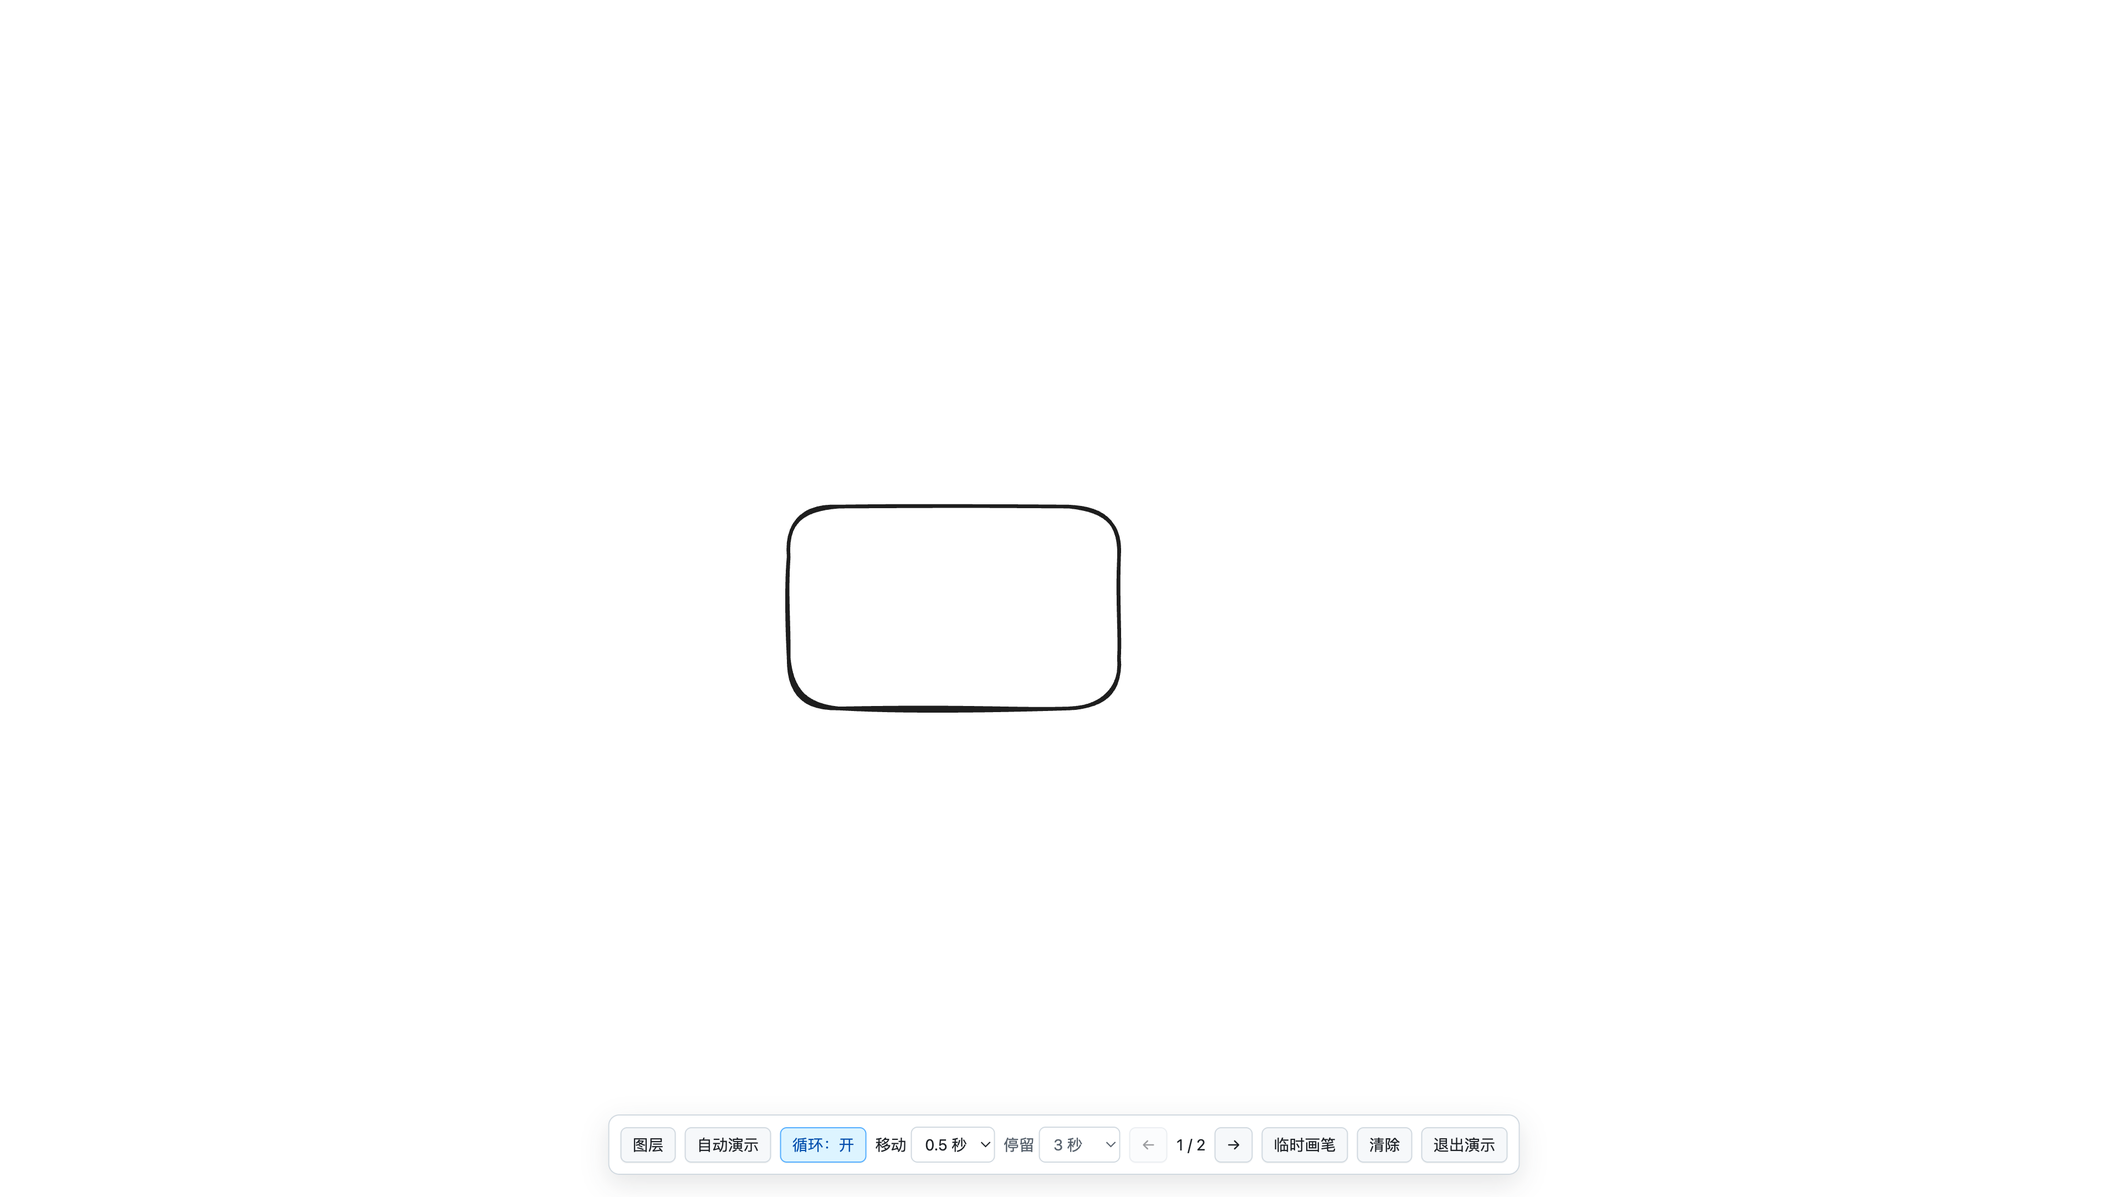
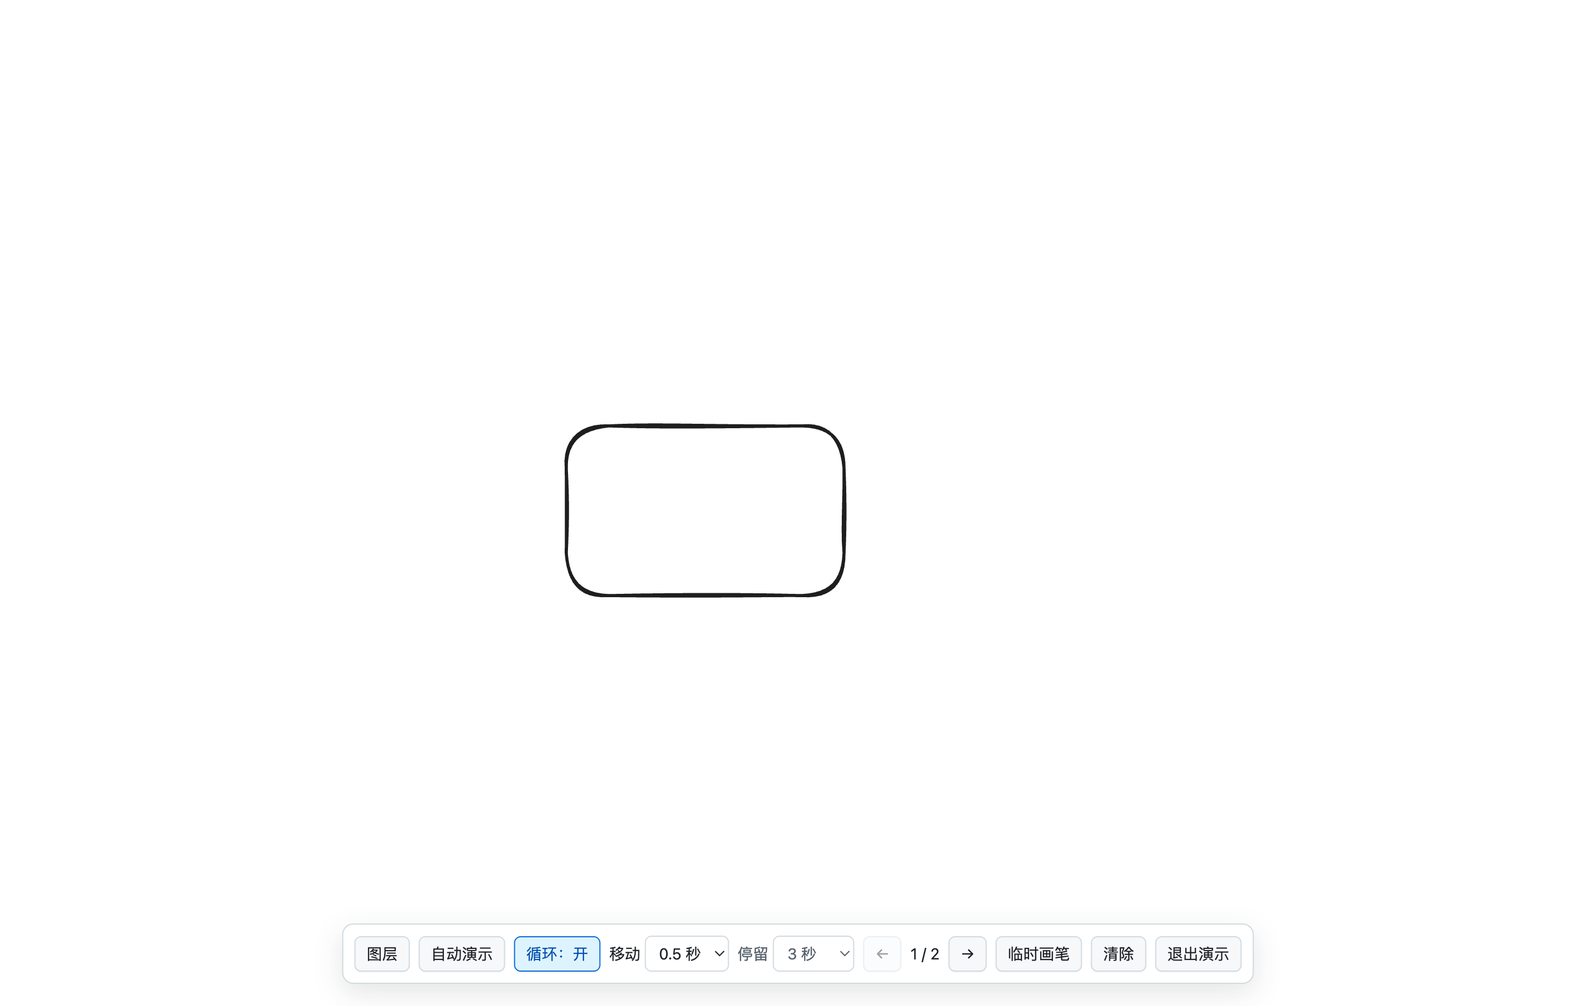
docs: present product features, linked scenes and current screenshots; keep history in lists

diff --git a/README.md b/README.md
@@ -2,7 +2,7 @@
 
 基于官方 MIT 授权的 Excalidraw React 组件，使用 React + Electron + SQLite 构建 Windows/macOS 本地优先白板。在保留原生绘图体验的基础上，增加本地文档管理、场景导航与全屏演示。
 
-[下载 0.4.0 开发预览版（macOS / Windows）](https://github.com/layzerff/excalidraw/releases/tag/v0.4.0) · [0.4.0 安装包对应源码](https://github.com/layzerff/excalidraw/tree/c15b4396b52e1566a4da2e3e047cff531b2c1075/desktop)
+[下载桌面版（macOS / Windows）](https://github.com/layzerff/excalidraw/releases) · [桌面端源码](https://github.com/layzerff/excalidraw/tree/codex/local-canvas-p0/desktop)
 
 [开发源码与运行说明](https://github.com/layzerff/excalidraw/tree/codex/local-canvas-p0/desktop) · [修改清单](https://github.com/layzerff/excalidraw/blob/codex/local-canvas-p0/desktop/NEXT-ITERATION.md) · [更新记录](https://github.com/layzerff/excalidraw/blob/codex/local-canvas-p0/desktop/CHANGELOG.md) · [验证记录](https://github.com/layzerff/excalidraw/blob/codex/local-canvas-p0/desktop/VALIDATION.md) · [原版介绍](README.upstream.md)
 
@@ -13,14 +13,15 @@
 | 功能 | Local Canvas 的扩展 |
 | --- | --- |
 | 本地文档工作区 | 根目录/文件夹右键新建，文件树就地菜单改名与移动，支持拖入文件夹及拖回根目录；文件夹加粗与折叠，左右侧栏可调整宽度 |
+| 回收站 | 恢复误删的白板和文件夹，或经确认后清空回收站；磁盘上的关联文件及已有备份独立保留 |
 | 保存与备份 | 内容变更自动保存，平移、缩放和场景导航不触发写入；手动保存（Cmd/Ctrl+S）同时记录当前视图；完整备份包含图片、场景及素材库 |
-| 同一白板内的场景 | 框选区域或保存当前视图，编辑标题、调整区域、拖动排序；点击后平滑移动并缩放，动画可打断 |
-| 紧凑场景侧栏 | 单行标题、拖动排序，右键进入改名/重框等操作；标题原位编辑，双栏图标切换显示 |
+| 三种场景创建方式 | 框选区域、选择画布元素或组合、添加当前视图；元素场景跟随关联内容的位置和边界变化，随文档及备份保存 |
+| 紧凑场景侧栏 | 标题原位编辑、拖动排序，Shift 连续多选并右键确认删除；双栏图标切换显示 |
 | 导航时长 | 编辑侧栏固定 0.5 秒；演示中的手动翻页与自动播放可选 0.5、1、1.5、2 秒 |
 | 全屏场景演示 | 从排序第一项开始，底部手动翻页或自动演示；图层面板可拖拽排序、右键原位改名，退出恢复编辑视图 |
 | 循环演示与只读浏览 | 自动演示可开启循环，末页回首页继续；独立“画布只读”禁止元素编辑、拖动和删除，同时允许平移缩放，保留原生工具锁的连续绘制语义 |
 | 四种工作区主题 | GitHub、Reddit、VS Code、Notion 风格，分别调整图标、配色与控件；目录高亮保持柔和，固定彩色调色板切换主题并记住偏好 |
-| 更简洁的浏览界面 | 左右侧栏可独立隐藏，标题/保存状态与操作按钮分区；双击鼠标中键恢复 100% 缩放；精简画布菜单与帮助页外链 |
+| 浏览与全览 | 左右侧栏可独立隐藏，标题/保存状态与操作按钮分区；双击鼠标中键让整张白板的内容进入视野 |
 | 文件打开与保存 | 系统窗口选择文件，手动保存写回原文件；另存为选择新位置，“文件信息”查看路径。内容自动保存到本机恢复副本，外部文件变更时拒绝覆盖 |
 | 演示临时画笔 | 直接使用 Excalidraw 原生自由画笔和样式面板，支持描边、背景、粗细及透明度；翻页或退出清除 |
 | 集中导出 | 右上角统一入口，可框选区域导出 PNG、SVG、PDF；支持整板、场景分页 PDF 及完整可编辑文档 |
@@ -29,23 +30,29 @@
 
 ## 编辑与场景管理
 
-当前桌面版本：**0.4.0**。新增四种主题、独立侧栏开关与 100% 缩放操作，统一顶部排布和目录字号。保留原生绘图、文件管理、保存、场景与演示能力。
+四种界面主题，独立的文件与场景侧栏，原生绘图与本地保存。目录层级使用引导线和柔和背景，顶部集中提供文件信息、只读浏览、主题与导出操作。
 
-<img src="docs/local-canvas/logo.png" width="128" alt="Canvas 网格手写 Logo：黑色边框、透明连续圆角" />
+<img src="docs/local-canvas/logo.png" width="128" alt="Canvas 手写 Logo：蓝色边框、黄色交叉线与透明外角" />
 
 | GitHub | Reddit |
 | --- | --- |
-| ![0.4.0 GitHub 主题实机](docs/local-canvas/theme-github.png) | ![0.4.0 Reddit 主题实机](docs/local-canvas/theme-reddit.png) |
+| ![GitHub 主题实机](docs/local-canvas/theme-github.png) | ![Reddit 主题实机](docs/local-canvas/theme-reddit.png) |
 | **VS Code** | **Notion** |
-| ![0.4.0 VS Code 主题实机](docs/local-canvas/theme-vscode.png) | ![0.4.0 Notion 主题实机](docs/local-canvas/theme-notion.png) |
+| ![VS Code 主题实机](docs/local-canvas/theme-vscode.png) | ![Notion 主题实机](docs/local-canvas/theme-notion.png) |
 
 四种风格各有目录图标、控件圆角与配色；目录选中和祖先路径采用低对比度背景，主题入口始终使用同一枚彩色调色板。只借鉴视觉风格，不代表与上述产品存在合作关系。
 
-左上角双栏按钮隐藏/显示文件栏，右上角按钮独立控制场景栏。画布双击鼠标中键恢复 100% 并保留视图中心，不触发内容自动保存。画布菜单保留打开、查找、帮助、重置、深色模式、背景及本项目 GitHub；保存和导出沿用工作区入口。
+左上角双栏按钮隐藏/显示文件栏，右上角按钮独立控制场景栏。双击鼠标中键自动平移缩放，使全部内容进入视野，不触发内容自动保存。画布菜单提供打开、查找、帮助、重置、深色模式、背景及本项目 GitHub。
 
-![0.4.0 精简画布菜单](docs/local-canvas/canvas-menu.png)
+![画布菜单](docs/local-canvas/canvas-menu.png)
 
-帮助页已去除顶部四个外链按钮，快捷键沿用原生平台判断：Mac 显示 Cmd/Option，Windows 显示 Ctrl/Alt。Mac 实机与模拟 Win32 平台标签已检查，Windows 实机键盘验证仍待完成。
+快捷键遵循系统习惯：Mac 使用 Cmd/Option，Windows 使用 Ctrl/Alt，可在原生帮助页查看。
+
+场景入口按“框选区域 / 选择元素”并排、“添加当前视图为场景”另起一行排列。先在画布选中独立元素或组合，再点“选择元素”，创建会跟随内容移动和尺寸变化的场景。若关联内容被删除，保留最后的导航区域；撤销删除后继续跟随。对跟随场景重新框选区域可解除关联。
+
+![元素与组合场景](docs/local-canvas/linked-scenes.png)
+
+场景列表支持 Shift 连续选择；右键删除前列出所选场景并要求确认。删除导航场景不删除画布上的文字和图形。
 
 三点菜单只显示清楚分组的操作项。选择重命名或移动后才显示对应表单，输入与确认按钮分区；选择移动目标不会立即执行，回收站操作需确认。
 

diff --git a/desktop/VALIDATION.md b/desktop/VALIDATION.md
@@ -1,5 +1,24 @@
 # Milestone validation — 2026-10-17
 
+## 0.4.1 — release validation, 2026-10-25
+
+- Production build and all 18 unit/resource checks passed, including linked-scene range/binding/geometry updates, backup round-trip, malformed binding rejection and transactional trash purge of nodes/revisions/link settings.
+- Final Mac arm64 packaged app passed all five suites, sequentially: `linked-scenes.e2e.mjs`, `local-update.e2e.mjs`, `appearance.e2e.mjs`, `workspace.e2e.mjs`, and the complete `desktop.e2e.mjs`.
+- Actual native grouping, pointer dragging, undo/redo, deletion and undo-deletion updated linked scene bounds correctly. Linked IDs survived restart. Unit checks cover new group members, missing content and backup restoration. Geometry uses the official getCommonBounds API (including rotated content); there is no claim of exhaustive rotation/complex-bound-text coverage.
+- Trash UI verified cancellation without deletion, confirmation and restart persistence. Only internal trashed records, revisions and file-link settings are purged; associated files and existing backups are untouched. Nested deleted folders are detached before transactional deletion to preserve foreign-key integrity.
+- Layout checks verify Region and Selected Elements on the same row, Current View below; all four themes retain subdued directory highlights to the right of guide lines without the inset crescent, and hidden-sidebar corner controls remain separated across 1000/1200/1440px widths.
+- Earlier local 0.4.1 checks for fit-all without autosave, Shift scene deletion confirmation, large single/two-page PDF output and temporary-file cleanup remain green. The complete suite also passed native drawing and ink undo/redo, scene ordering/fullscreen/autoplay, imports/exports, external file conflict protection, backup/restore, storage migration and restart. Prior intermittent ink/fullscreen-drag failures are historical observations; this passing run does not establish their root cause was fixed.
+- Mac ad-hoc signing and Windows x64 cross-builds complete; Windows runtime, Authenticode signing and Apple notarization remain unverified/unconfigured. README contains product features and real current screenshots; history and test details stay in dedicated documents.
+
+## 0.4.1 — earlier local-only validation, 2026-10-25
+
+- Production build and 15 unit/resource checks passed. New scene-range checks cover forward/reverse ranges, reordered scenes and missing anchors. ICO/ICNS structure, Mac visible bounds and transparent corners are checked.
+- Actual Mac arm64 packaged `local-update.e2e.mjs` passed: double-middle-click fits two distant rectangles entirely within the viewport without creating an autosave revision; manual Save then verifies the resulting viewport. Shift selection, cancellation, confirmed batch deletion and unchanged drawing elements were checked in both editing and fullscreen; deleting the last presentation scenes exits presentation and survives restart.
+- Large-image PDF regression passed with an image data URL over 4,000,000 characters: single and two-page outputs have valid PDF headers; pdfinfo confirms one/two landscape A4 pages. Invalid-image export fails without creating an output file and removes its temporary directory. The fix uses local PNG/HTML files, waits for image decoding and cleans up the print window/files.
+- Actual packaged appearance checks cover four themes, 1000/1200/1440px window widths, hidden-right-sidebar corner spacing and actual export-menu clicks. Tree highlight pseudo-element begins to the right of the deepest indentation guide and has no inset/crescent marker in every theme. Theme preferences and independent sidebar restart checks continue to pass.
+- Packaged workspace regression passed ancestor highlighting, moves/restart, context forms, indentation, transparent logo corners, read-only editing protection, automatic loop wrap/stop and preferences.
+- Mac/Windows packages are local delivery only. No 0.4.1 GitHub Release, tag or software asset upload is authorized. Only CHANGELOG.md and NEXT-ITERATION.md are synchronized as requested. No Windows runtime or distribution signing/notarization; earlier full-suite temporary-ink undo/fullscreen-drag intermittence is not claimed fixed.
+
 ## 0.4.0 — 2026-10-25
 
 - Production build and all 15 unit/resource checks passed. New checks cover four complete theme definitions, safe preference fallback, readable text contrast and center-preserving 100% zoom.

diff --git a/desktop/README.md b/desktop/README.md
@@ -21,6 +21,9 @@ npm start
 
 ## Included
 
+- Three scene entry points: draw a fixed region, link currently selected elements/groups, or capture the current view. Linked scenes track official geometry bounds as content moves/resizes/rotates; group membership and element IDs persist with documents and workspace backups. If all linked content is deleted, the last bounds remain; undo restores tracking. Redrawing a linked scene converts it into a fixed region.
+- Trash supports restore and a separately confirmed Empty Trash action. Purging is transactional and removes trashed nodes, their revision rows and file-link settings. Associated disk files and existing backups remain untouched.
+
 - Unmodified official Excalidraw editor: drawing, text, arrows, freehand, frames, library and standard editor controls. Fonts are bundled locally. A library is saved with its whiteboard.
 - Nested file tree, document/folder creation, rename, move, document switching and recoverable deletion. A folder must be empty before deletion. No document-count or folder-count quota.
 - SQLite WAL with FULL synchronous commits, revision-conflict protection, 500 ms debounced saves, at most 2 s between saves during continuous edits, synchronous flush before switching and closing. Failed saves remain dirty and show an error. OS/process crashes can lose changes not yet committed, at most the debounce/max-wait window under normal operation.
@@ -87,9 +90,9 @@ Retain the repository root MIT `LICENSE` and `dist/EXCALIDRAW-LICENSE.txt`. `npm
 
 Official references: https://docs.excalidraw.com/docs/@excalidraw/excalidraw/api/props/excalidraw-api and https://github.com/excalidraw/excalidraw/blob/master/LICENSE.
 
-## Desktop 0.4.0 — appearance and navigation
+## Appearance and navigation
 
-Choose GitHub, Reddit, VS Code or Notion in the header. Each style has matching shell colors, directory icons, radii and subdued tree highlights; the fixed 20px colored palette icon remains identical. Appearance and independent left/right sidebar preferences survive restart. The heading/status and action group align separately. Double middle click on the drawing surface returns to 100% while preserving the center and does not autosave.
+Choose GitHub, Reddit, VS Code or Notion in the header. Each style has matching shell colors, directory icons, radii and subdued tree highlights; the fixed 20px colored palette icon remains identical. Appearance and independent left/right sidebar preferences survive restart. The heading/status and action group align separately. Double middle click on the drawing surface fits all whiteboard content into the viewport without autosaving. Indented row highlights stay to the right of their guide line, without an inset crescent marker.
 
 The custom native menu keeps Open, Search, Help, Clear, canvas dark mode/background and the project GitHub link. Save/Save As remain in the workspace; the unified export icon remains top right. Help's four external header links are hidden; native platform-specific shortcut labels remain. Cmd/Ctrl+S saves, Cmd/Ctrl+Shift+S opens Save As and Cmd/Ctrl+Shift+E opens unified export. Mac labels were checked on the packaged app; Windows labels were checked with a Win32 navigator simulation, not a Windows runtime test. `node tests/appearance.e2e.mjs` covers these changes and verifies that theme changes do not modify whiteboard data.
 

diff --git a/desktop/LOGO.md b/desktop/LOGO.md
@@ -1,4 +1,14 @@
-# Canvas logo — 0.4.0 continuous-corner refinement
+# Canvas logo — 0.4.1
+
+## 0.4.1
+
+Replaced the artwork using the user's new blue-border/yellow-crosshatch Canvas reference. The built-in image editing tool retained the handwritten style, enlarged/boldened the word slightly and requested true alpha outside the rounded outline with an opaque white interior. This is a raster edit, not a claim of pixel-identical reconstruction. Source: `build/app-icon.png`; local preview: `../docs/local-canvas/logo-local.png`. ICO/ICNS are mechanically regenerated; Mac optical bounds use the same visible-alpha threshold as validation so nearly transparent edge pixels do not shrink the apparent artwork.
+
+Final built-in editing prompt:
+
+> Use case: precise-object-edit. Asset type: replacement PNG app icon. The attached image is the edit target, NOT merely a style reference. Preserve this exact hand-drawn Canvas logo: irregular blue rounded-square border, yellow diagonal crosshatch strokes, opaque white interior, and blue handwritten lettering. Keep the original line texture, stroke positions, proportions, colors and exact handwriting letter shapes. Text verbatim: Canvas. Make only these changes: make the existing Canvas lettering slightly bolder (about 10%) and slightly larger (about 7%), centered, without changing its handwritten font or making it black; remove the white background OUTSIDE the rounded blue outline so all four outer corner areas have genuine alpha transparency. Clip any yellow line fragments outside the outline. Keep the white interior opaque. Do NOT redesign the corner shape, straighten the hand-drawn strokes, recolor, add shadows, add symbols, add a border plate, or add text. Keep the complete blue border inside the image with just 1% transparent safety margin and no edge clipping. Flat square PNG, faithful to the attached target.
+
+## 0.4.0 history
 
 Input: user-supplied Canvas logo reference and the 0.2.1 derivative, 2026-10-25. The built-in image editing tool preserved the blue crosshatch and black handwritten Canvas word, changed the border to black, enlarged the lettering slightly and applied an approximate Apple-style continuous-corner app-icon silhouette. Outside corners are genuinely transparent, not a white corner backdrop. This is not the Apple symbol or a claim of exact proprietary mask geometry. No CLI image generation API was used.
 

diff --git a/desktop/CHANGELOG.md b/desktop/CHANGELOG.md
@@ -1,6 +1,11 @@
 # 修改记录
 
-## 2026-10-25 · 0.4.1 本地更新（未发布 GitHub 软件包）
+## 2026-10-25 · 0.4.1
+
+- 回收站增加清空操作，确认后原子删除应用内回收站项目、历史记录与文件关联配置；不删除磁盘外部文件或已有备份。
+- 场景可关联所选元素或组合，移动、缩放、旋转及组成员变化后按实际边界跟随；删除关联内容时保留最后区域，撤销后继续跟随。关联数据随文档和备份保存。
+- 场景入口调整为“框选区域 / 选择元素”并排，下一行“添加当前视图为场景”。跟随场景重框时解除关联。
+- GitHub 主页仅展示功能与使用入口，变更过程保留在本清单及验证记录。
 
 - 按新参考图更新蓝色边框、黄色交叉线和手写 Canvas Logo，文字略粗、略大，圆角外部使用透明 PNG；同步生成本地 Mac/Windows 图标。
 - 修复隐藏右侧栏后，主题选择与导出/侧栏按钮重叠的问题。
@@ -9,7 +14,7 @@
 - 中键双击改为适配整张白板的全部内容，不再固定为 100%；只调整视图，不触发内容自动保存。
 - 场景列表支持 Shift 连续多选，右键批量删除前显示确认对话框；编辑侧栏与演示图层列表共用，删除场景不删除白板图形。
 - PDF 导出改用临时 HTML/图片文件，避免大图数据拼接进页面 URL；完成或失败后清理临时文件。
-- 本轮仅同步变更清单到 GitHub；0.4.1 安装包仅作本地交付，尚未创建 GitHub Release 或版本标签。实际验证结果保留在本地验证记录。
+- 本轮包含此前本地 0.4.1 修复，按用户确认发布到个人 fork 的 GitHub Release；范围与限制见 VALIDATION.md。
 
 ## 2026-10-25 · 0.4.0 多主题与浏览界面
 

diff --git a/desktop/NEXT-ITERATION.md b/desktop/NEXT-ITERATION.md
@@ -6,6 +6,8 @@
 
 ## 本轮状态
 
+2026-10-25 / 0.4.1 发布范围：包含 N49–N55 本地修复；N56 清空回收站与明确确认；N57 关联元素/组合的跟随场景及备份恢复；N58 三种场景入口布局；N59 主页只展示功能，历史放入独立清单。用户已授权软件更新及 GitHub 0.4.1 发布。
+
 2026-10-25 / 0.4.1（本地更新，未发布 GitHub 软件包）：N49 新附图蓝框黄线 Logo 与透明外角；N50 隐藏右栏后的顶部控件防重叠；N51 中键双击适配全部内容（替代 N44 固定 100%）；N52 Shift 连续选中场景、右键批量删除与确认，覆盖编辑及演示列表；N53 大图片 PDF 改用临时文件页面，避免长 data URL 错误；N54 目录高亮背景不越过所在层级竖线；N55 移除目录高亮左侧加深月牙形边线。本轮仅同步清单，安装包在本地确认后再另行发布。
 
 2026-10-25 / 0.4.0：N43 GitHub/Reddit/VS Code/Notion 四主题及图标；N44 中键双击 100%；N45 精简原生菜单与帮助外链、平台快捷键核查；N46 左侧栏独立开关；N47 顶部排布、固定 20px 彩色调色板、目录统一字号与低对比高亮；N48 Logo 连续圆角与平台图标更新。实际验证范围见 VALIDATION.md。
